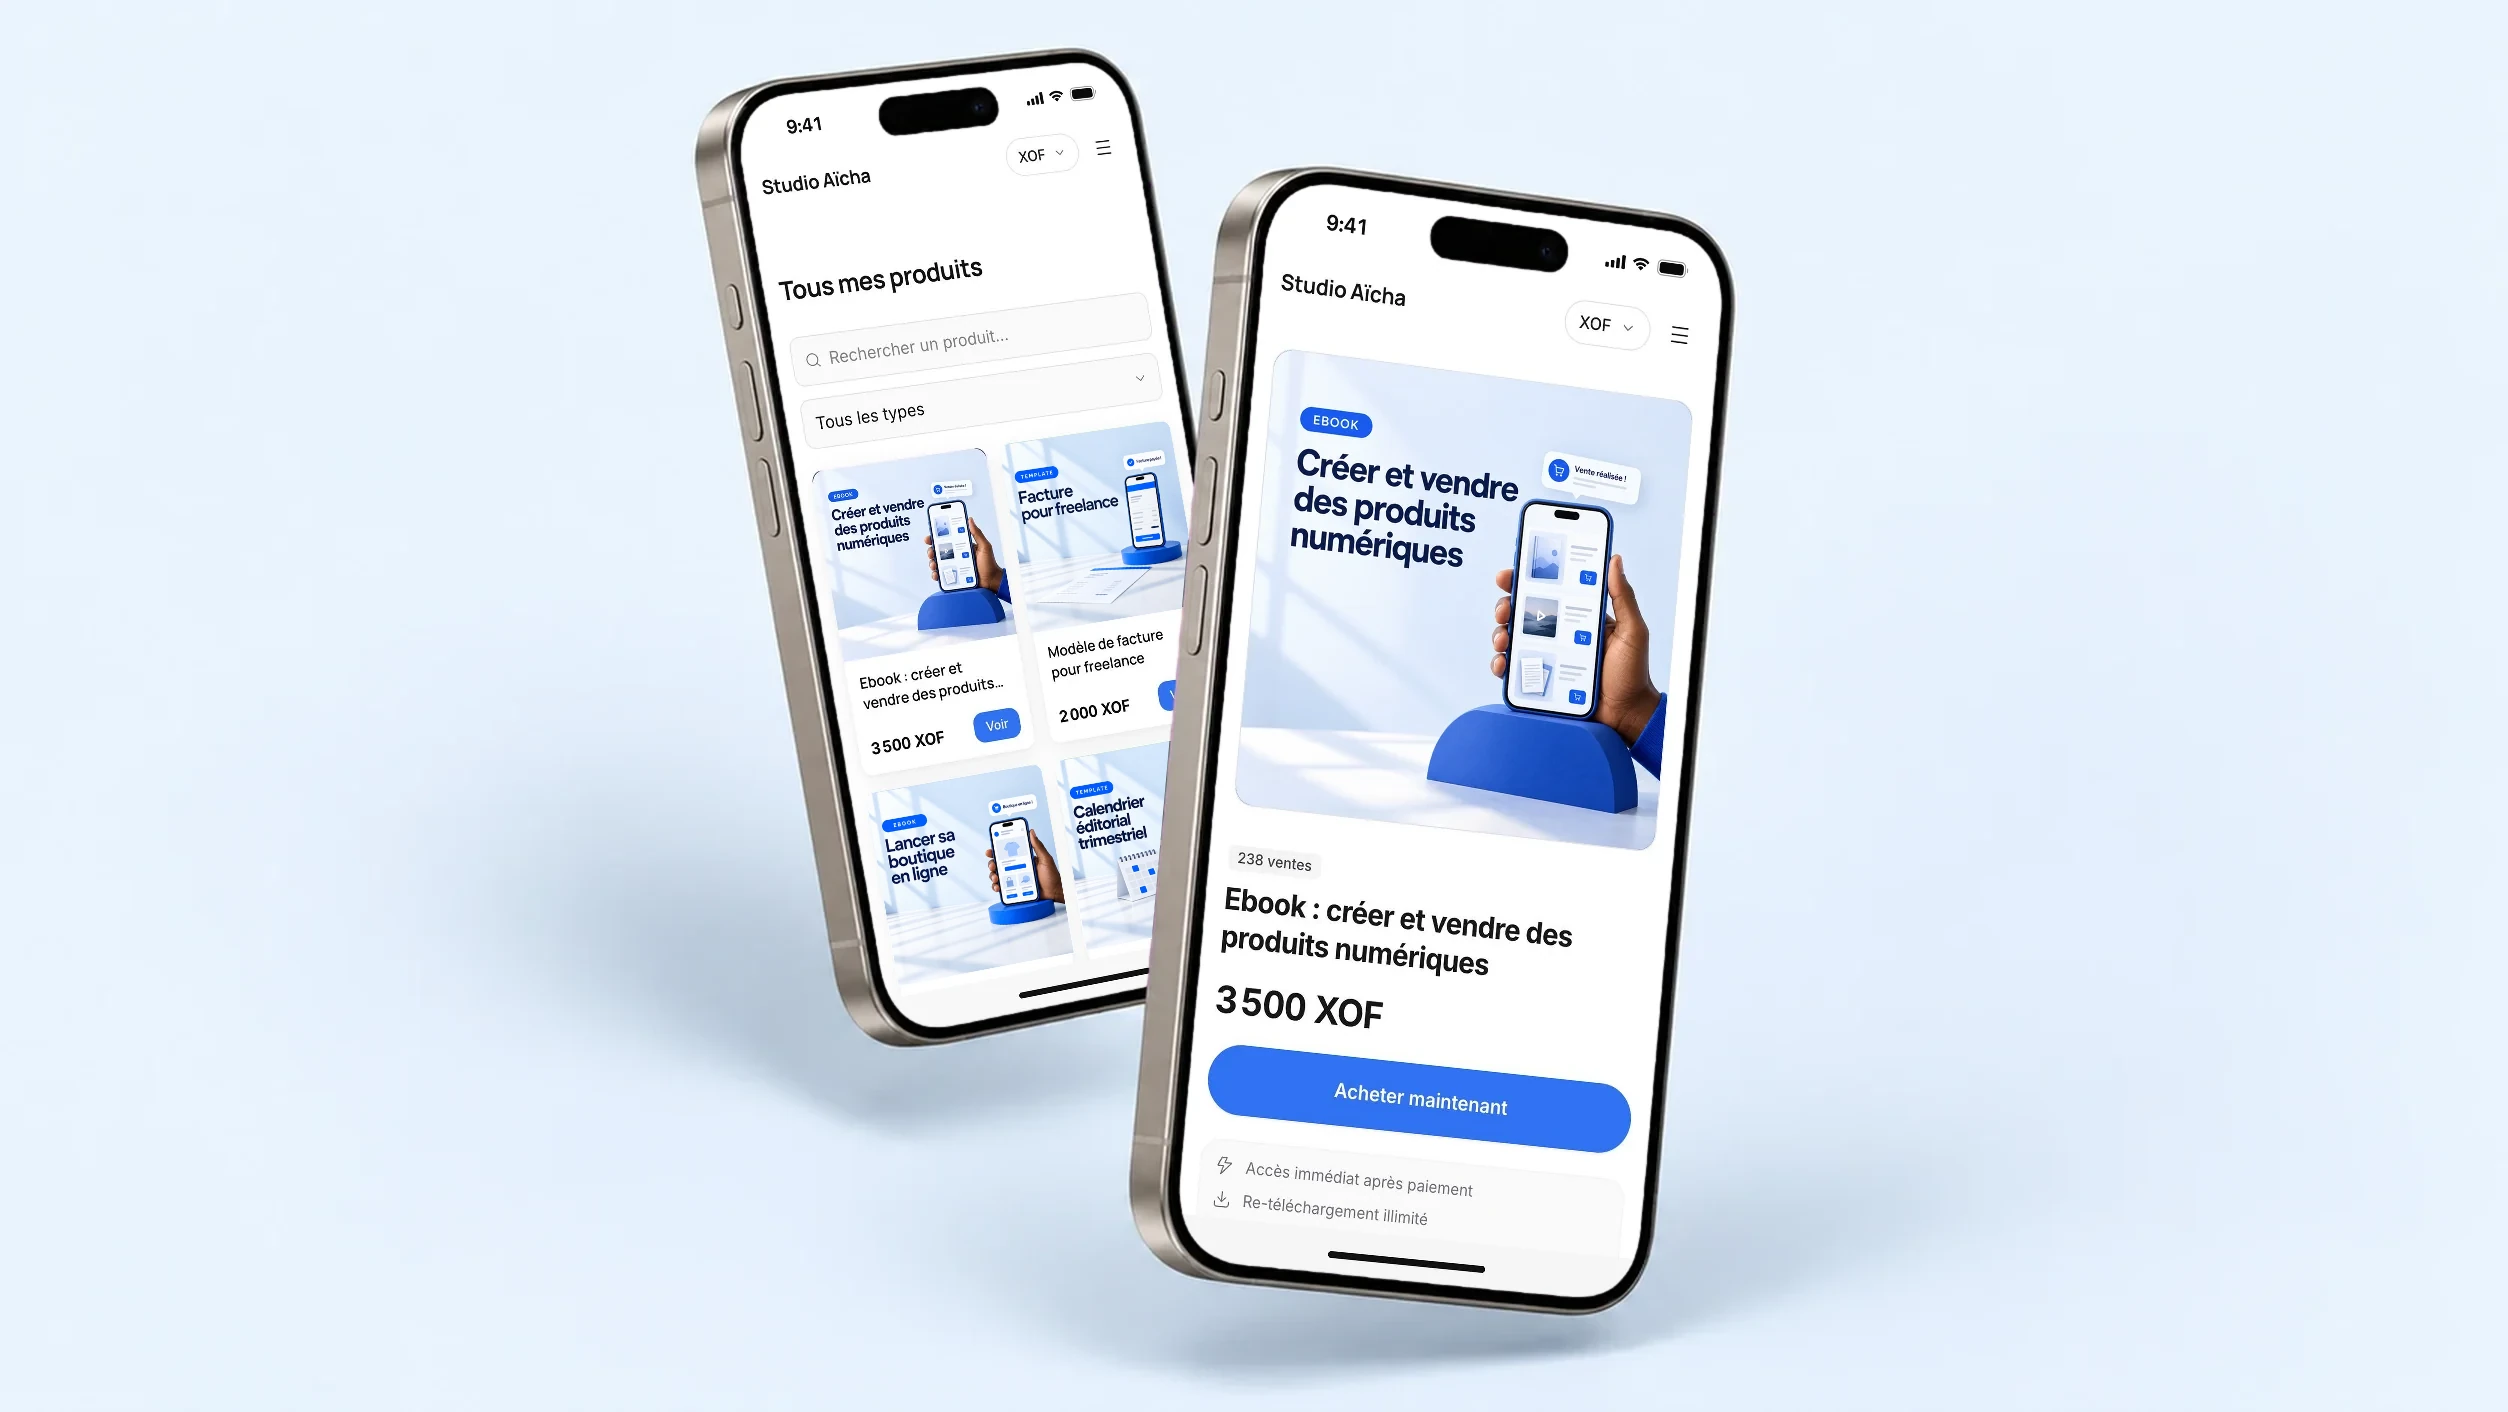
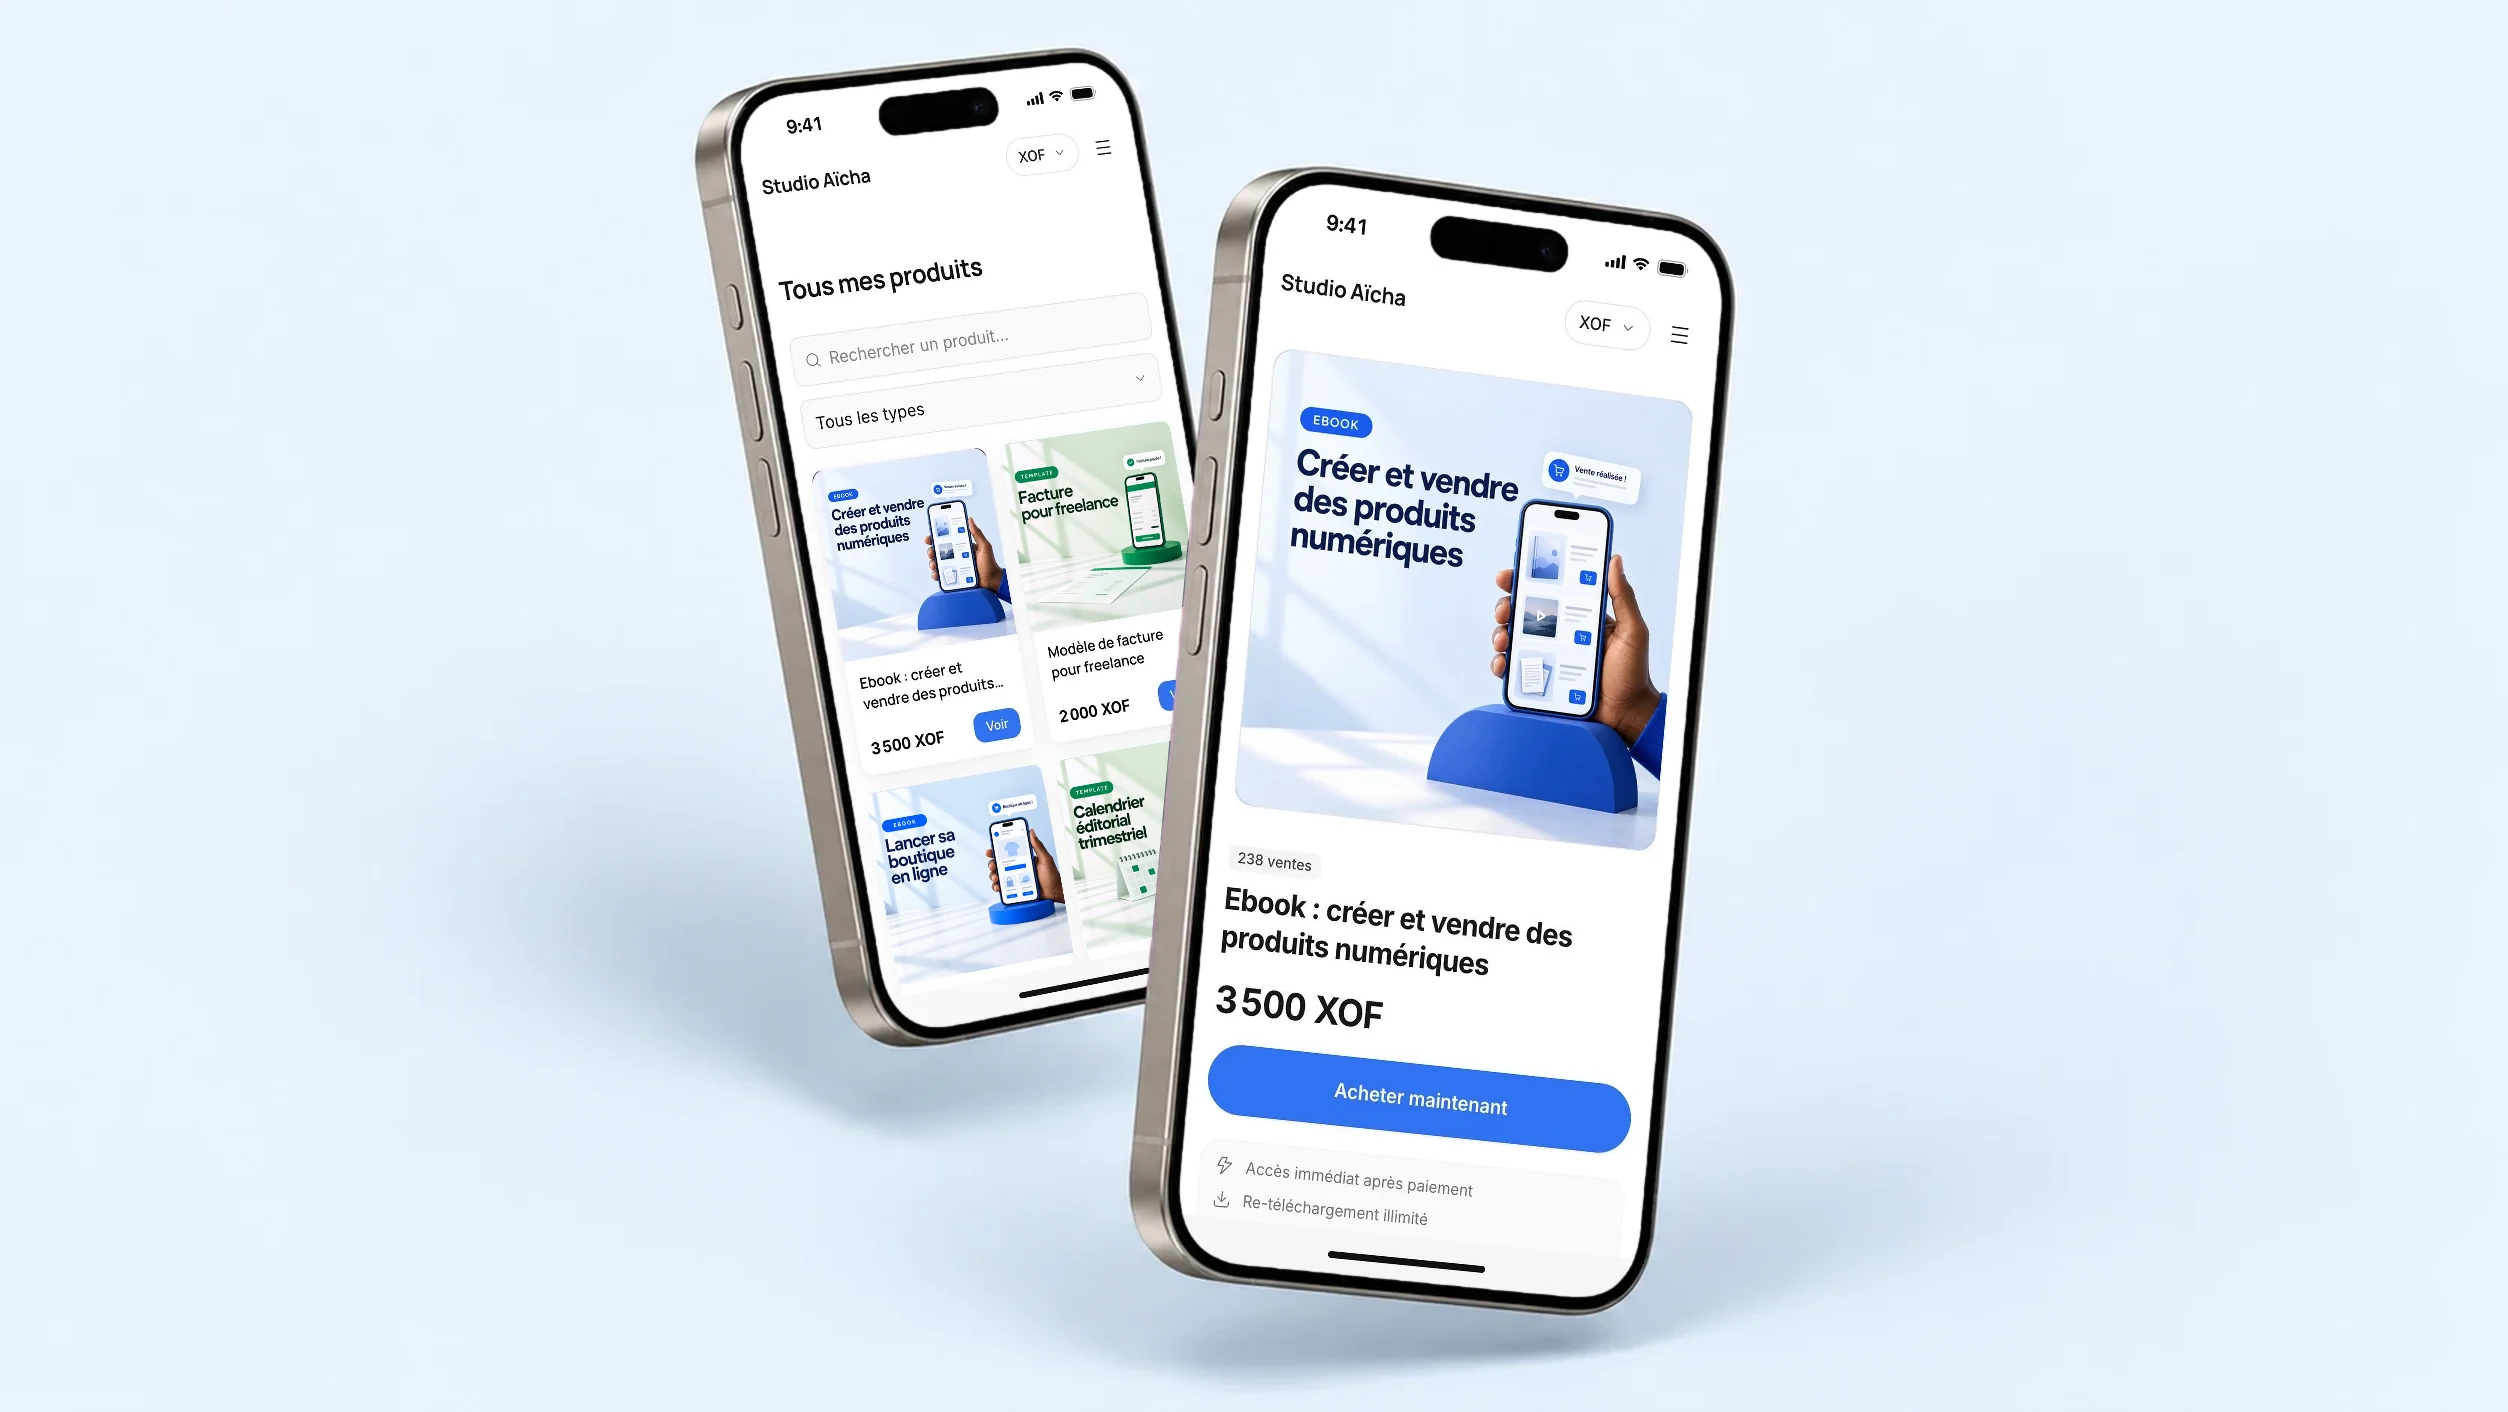
Miniatures : une couleur par type de produit, comme dans l'app
Ebook en bleu cobalt, template en vert, formation en violet. La grille de la
boutique (accueil et boutique de démo) alterne au lieu de répéter le même
bleu. Outil outils/images/teinte.py : rotation des bleus dans l'espace Lab.

Claude-Session: https://claude.ai/code/session_01WF1VizXfKDtoFhs7FXrbow

Changed region(s): [[0.4043, 0.2805, 0.4976, 0.4051], [0.4043, 0.5297, 0.4665, 0.6232], [0.4354, 0.6544, 0.4665, 0.6856]]

diff --git a/site/index.html b/site/index.html
@@ -124,7 +124,7 @@
     <section class="sec" id="boutique" aria-labelledby="boutique-t">
       <div class="wrap">
         <header class="sh"><p class="sh__k">Votre boutique</p><h2 class="sh__t" id="boutique-t">Votre boutique, à votre image.</h2><p class="sh__p">Un nom, vos couleurs, votre logo. Une vitrine à votre image, sur votre domaine, sans écrire une ligne de code.</p></header><div class="chiprow"><span class="chip chip--tr"><span class="chip__ic" style="--c:#7C5CE6"><svg aria-hidden="true"><use href="#l-code"/></svg></span>Sans code</span><span class="chip chip--bl"><span class="chip__ic" style="--c:#0866FF"><svg aria-hidden="true"><use href="#l-globe"/></svg></span>.mepaye.shop inclus</span></div>
-        <div class="panel panel--mock panel--mock-blue"><img class="scene scene--mock" src="assets/r/boutique-1200-919bd522.webp" srcset="assets/r/boutique-800-919bd522.webp 800w, assets/r/boutique-1200-919bd522.webp 1200w, assets/r/boutique-1700-919bd522.webp 1700w, assets/r/boutique-2400-919bd522.webp 2400w, assets/r/boutique-2508-919bd522.webp 2508w" sizes="(max-width: 760px) 196vw, min(1200px, 92vw)" alt="La boutique Studio Aïcha sur deux iPhone : la liste des produits et une page produit" width="2508" height="1412" loading="lazy" decoding="async" style="--mpos:54%"></div>
+        <div class="panel panel--mock panel--mock-blue"><img class="scene scene--mock" src="assets/r/boutique-1200-5d498744.webp" srcset="assets/r/boutique-800-5d498744.webp 800w, assets/r/boutique-1200-5d498744.webp 1200w, assets/r/boutique-1700-5d498744.webp 1700w, assets/r/boutique-2400-5d498744.webp 2400w, assets/r/boutique-2508-5d498744.webp 2508w" sizes="(max-width: 760px) 196vw, min(1200px, 92vw)" alt="La boutique Studio Aïcha sur deux iPhone : la liste des produits et une page produit" width="2508" height="1412" loading="lazy" decoding="async" style="--mpos:54%"></div>
       </div>
     </section>
 

diff --git a/outils/images/teinte.py b/outils/images/teinte.py
@@ -1,0 +1,24 @@
+"""Change la couleur d'une miniature : les bleus (fond, socle, coque, pastille, titre) prennent la teinte du type,
+la peau, les blancs et les gris restent intacts. Rotation de teinte dans l'espace Lab (luminosité conservée)."""
+import sys, numpy as np, cv2
+from PIL import Image
+def lab_hue(hexc):
+    c = np.uint8([[[int(hexc[i:i+2], 16) for i in (1, 3, 5)]]]).astype(np.float32) / 255
+    L, a, b = cv2.cvtColor(c, cv2.COLOR_RGB2Lab)[0, 0]
+    return np.degrees(np.arctan2(b, a))
+def run(src, dst, target, sat=1.0):
+    im = np.asarray(Image.open(src).convert('RGB')).astype(np.float32) / 255
+    lab = cv2.cvtColor(im, cv2.COLOR_RGB2Lab)
+    L, a, b = lab[..., 0], lab[..., 1], lab[..., 2]
+    C = np.hypot(a, b); h = np.degrees(np.arctan2(b, a))
+    src_h = lab_hue('#0866FF'); d = lab_hue(target) - src_h
+    # poids : 1 pour les bleus (±35° autour du cobalt), fondu jusqu'à ±60°, rien pour les couleurs neutres
+    dist = np.abs(((h - src_h) + 180) % 360 - 180)
+    w = np.clip((100 - dist) / 20, 0, 1) * np.clip((C - 1) / 3, 0, 1)
+    nh = np.radians(h + d * w)
+    C2 = C * (1 + (sat - 1) * w)
+    lab2 = np.stack([L, C2 * np.cos(nh), C2 * np.sin(nh)], -1)
+    out = cv2.cvtColor(lab2.astype(np.float32), cv2.COLOR_Lab2RGB)
+    Image.fromarray((out.clip(0, 1) * 255 + .5).astype(np.uint8)).save(dst)
+if __name__ == '__main__':
+    run(sys.argv[1], sys.argv[2], sys.argv[3], float(sys.argv[4]) if len(sys.argv) > 4 else 1.0)

diff --git a/PASSATION.md b/PASSATION.md
@@ -237,8 +237,9 @@ UP=1.5 python3 outils/images/mockup.py mockup.png sortie.png ecran1.png[:barre_o
    - masque de base par la vision macOS : `outils/images/cutout` (à recompiler depuis `cutout.swift` avec `swiftc`) ;
    - finition : `outils/images/cutwhite.py`, avec l'option `hair` pour les tresses ;
    - autre outil : `defringe.py`.
-5. **Notification iOS :** rendue en HTML avec SF Pro (`outils/barre-ios/notif.html`), capturée par `outils/captures/notifscr.mjs`.
-6. **Export :** WebP qualité 84 à 90, dans le bon dossier de `site/assets/`. Reconstruisez ensuite : `optim.py` fabrique les versions réduites.
+5. **Couleur des miniatures produits :** chaque type a sa teinte, comme dans l'app : ebook en bleu cobalt (d'origine), template en vert `#10A37F`, formation en violet `#7C3AED`. `outils/images/teinte.py source.png sortie.png '#10A37F' 0.9` fait tourner les bleus vers la teinte voulue (luminosité conservée, peau et blancs intacts). Les miniatures finales sont dans `site/assets/covers/`.
+6. **Notification iOS :** rendue en HTML avec SF Pro (`outils/barre-ios/notif.html`), capturée par `outils/captures/notifscr.mjs`.
+7. **Export :** WebP qualité 84 à 90, dans le bon dossier de `site/assets/`. Reconstruisez ensuite : `optim.py` fabrique les versions réduites.
 
 **Contrôle qualité avant de livrer :**
 - zoomez sur chaque écran incrusté : texte lisible, aucun liseré vert, coins alignés ;
